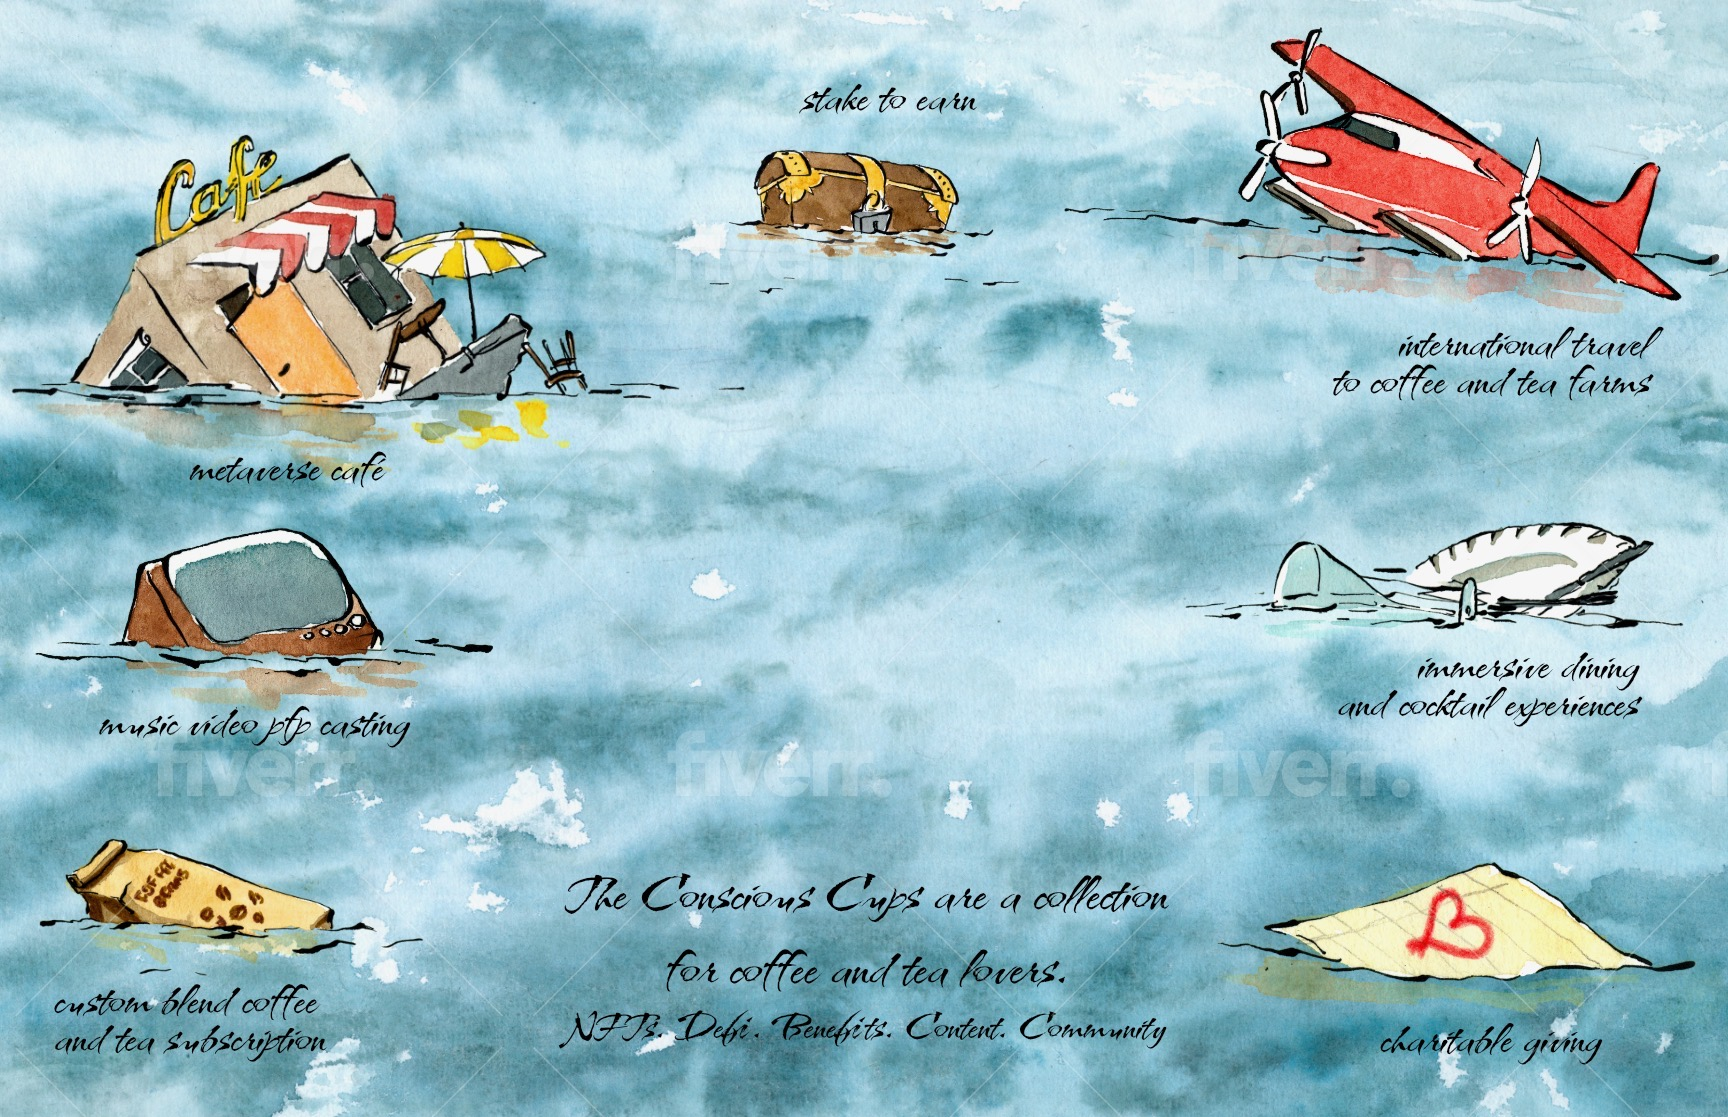
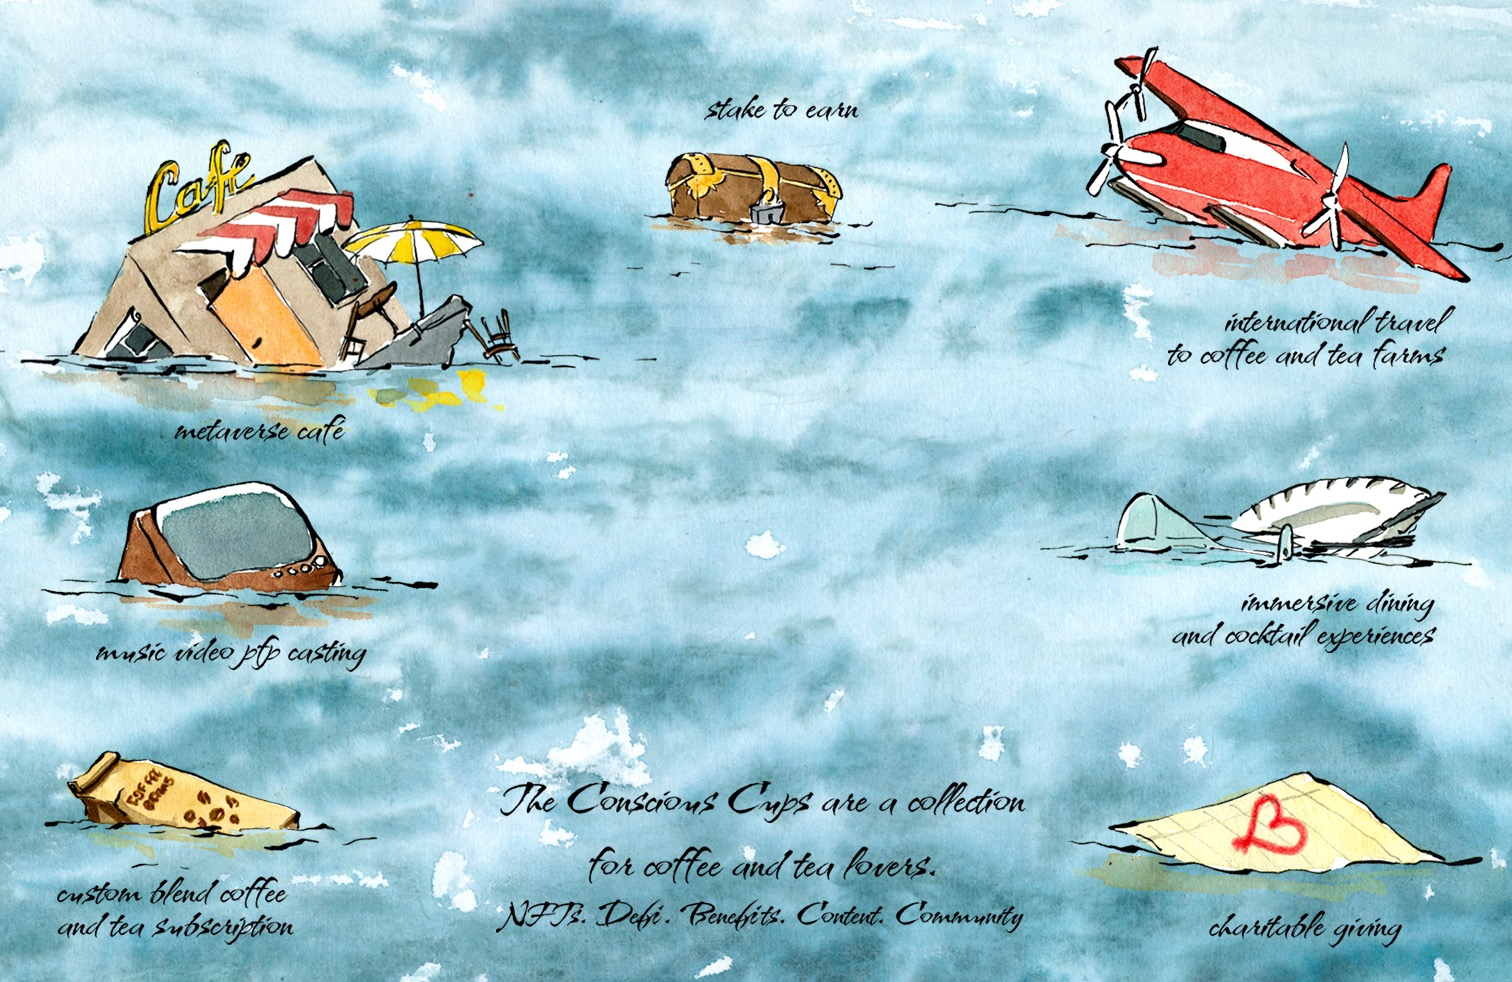
background swap, cleanup

diff --git a/js/scripts.js b/js/scripts.js
@@ -12,7 +12,7 @@ setVisible('.pic', false);
 setVisible('#loading', true);
 
 document.addEventListener('DOMContentLoaded', () =>
-    wait(3000).then(() => {
+    wait(20000).then(() => {
         setVisible('.pic', true);
         setVisible('#loading', false);
     }));
@@ -24,32 +24,33 @@ window.onload = function () {
         $('#under-img').css("width", "100%")
 };
 
-// Reveal drawing on hover
+// Reveal drawing on hover (>820)
+if ($(window).width() > 820) {
+    $('.pic').mousemove(function (event) {
+        var offset = window.innerWidth * 0.06 + 150
+        var minX = window.innerWidth / 2 - offset;
+        var maxX = window.innerWidth / 2 + offset;
+        var minY = window.innerHeight / 2 - offset - 75;
+        var maxY = window.innerHeight / 2 + offset - 75;
+        event.preventDefault();
+        var mask = $('#mask1 circle')[0];
 
-$('.pic').mousemove(function (event) {
-    var offset = window.innerWidth * 0.06 + 150
-    var minX = window.innerWidth / 2 - offset;
-    var maxX = window.innerWidth / 2 + offset;
-    var minY = window.innerHeight / 2 - offset - 75;
-    var maxY = window.innerHeight / 2 + offset - 75;
-    console.log(minX, maxX, minY, maxY)
-    event.preventDefault();
-    var mask = $('#mask1 circle')[0];
-
-    var upX = event.clientX;
-    var upY = event.clientY;
+        var upX = event.clientX;
+        var upY = event.clientY;
 
 
-    if (upX < minX || upX > maxX || upY < minY || upY > maxY) {
-        $('#maskCircle').fadeIn('fast');
-        mask.setAttribute("cy", (upY - 5) + 'px');
-        mask.setAttribute("cx", (upX) + 'px');
-    } else {
-        $('#maskCircle').fadeOut('fast');
-    }
+        if (upX < minX || upX > maxX || upY < minY || upY > maxY) {
+            $('#maskCircle').fadeIn('fast');
+            mask.setAttribute("cy", (upY - 5) + 'px');
+            mask.setAttribute("cx", (upX) + 'px');
+        } else {
+            $('#maskCircle').fadeOut('fast');
+        }
 
-});
+    });
+}
 
+// Join hover effects
 if ($(window).width() > 820) {
     $('.btn-join').hover(function () {
         $('.social-container').show()
@@ -64,7 +65,7 @@ if ($(window).width() > 820) {
     });
 }
 
-
+// Mute / unmute
 var firstMute = true;
 var player = document.getElementById("player")
 $('#unmute-btn').click(function () {
@@ -83,8 +84,6 @@ $('#mute-btn').click(function () {
     $('#mute-btn').hide();
     $('#unmute-btn').show();
 })
-
-
 
 $('#un-mute').click(function () {
     console.log($('#un-mute').val())

diff --git a/css/additional.css b/css/additional.css
@@ -278,6 +278,12 @@ a>.instagram:hover {
     position: absolute;
     bottom: 30px;
     right: 30px;
+    text-shadow: 5px 5px 4px #7B4436;
+
+}
+
+.sound-ctrl:hover {
+    text-shadow: 3px 3px 2px #7B4436;
 }
 
 @media screen and (min-width: 1100px) {
